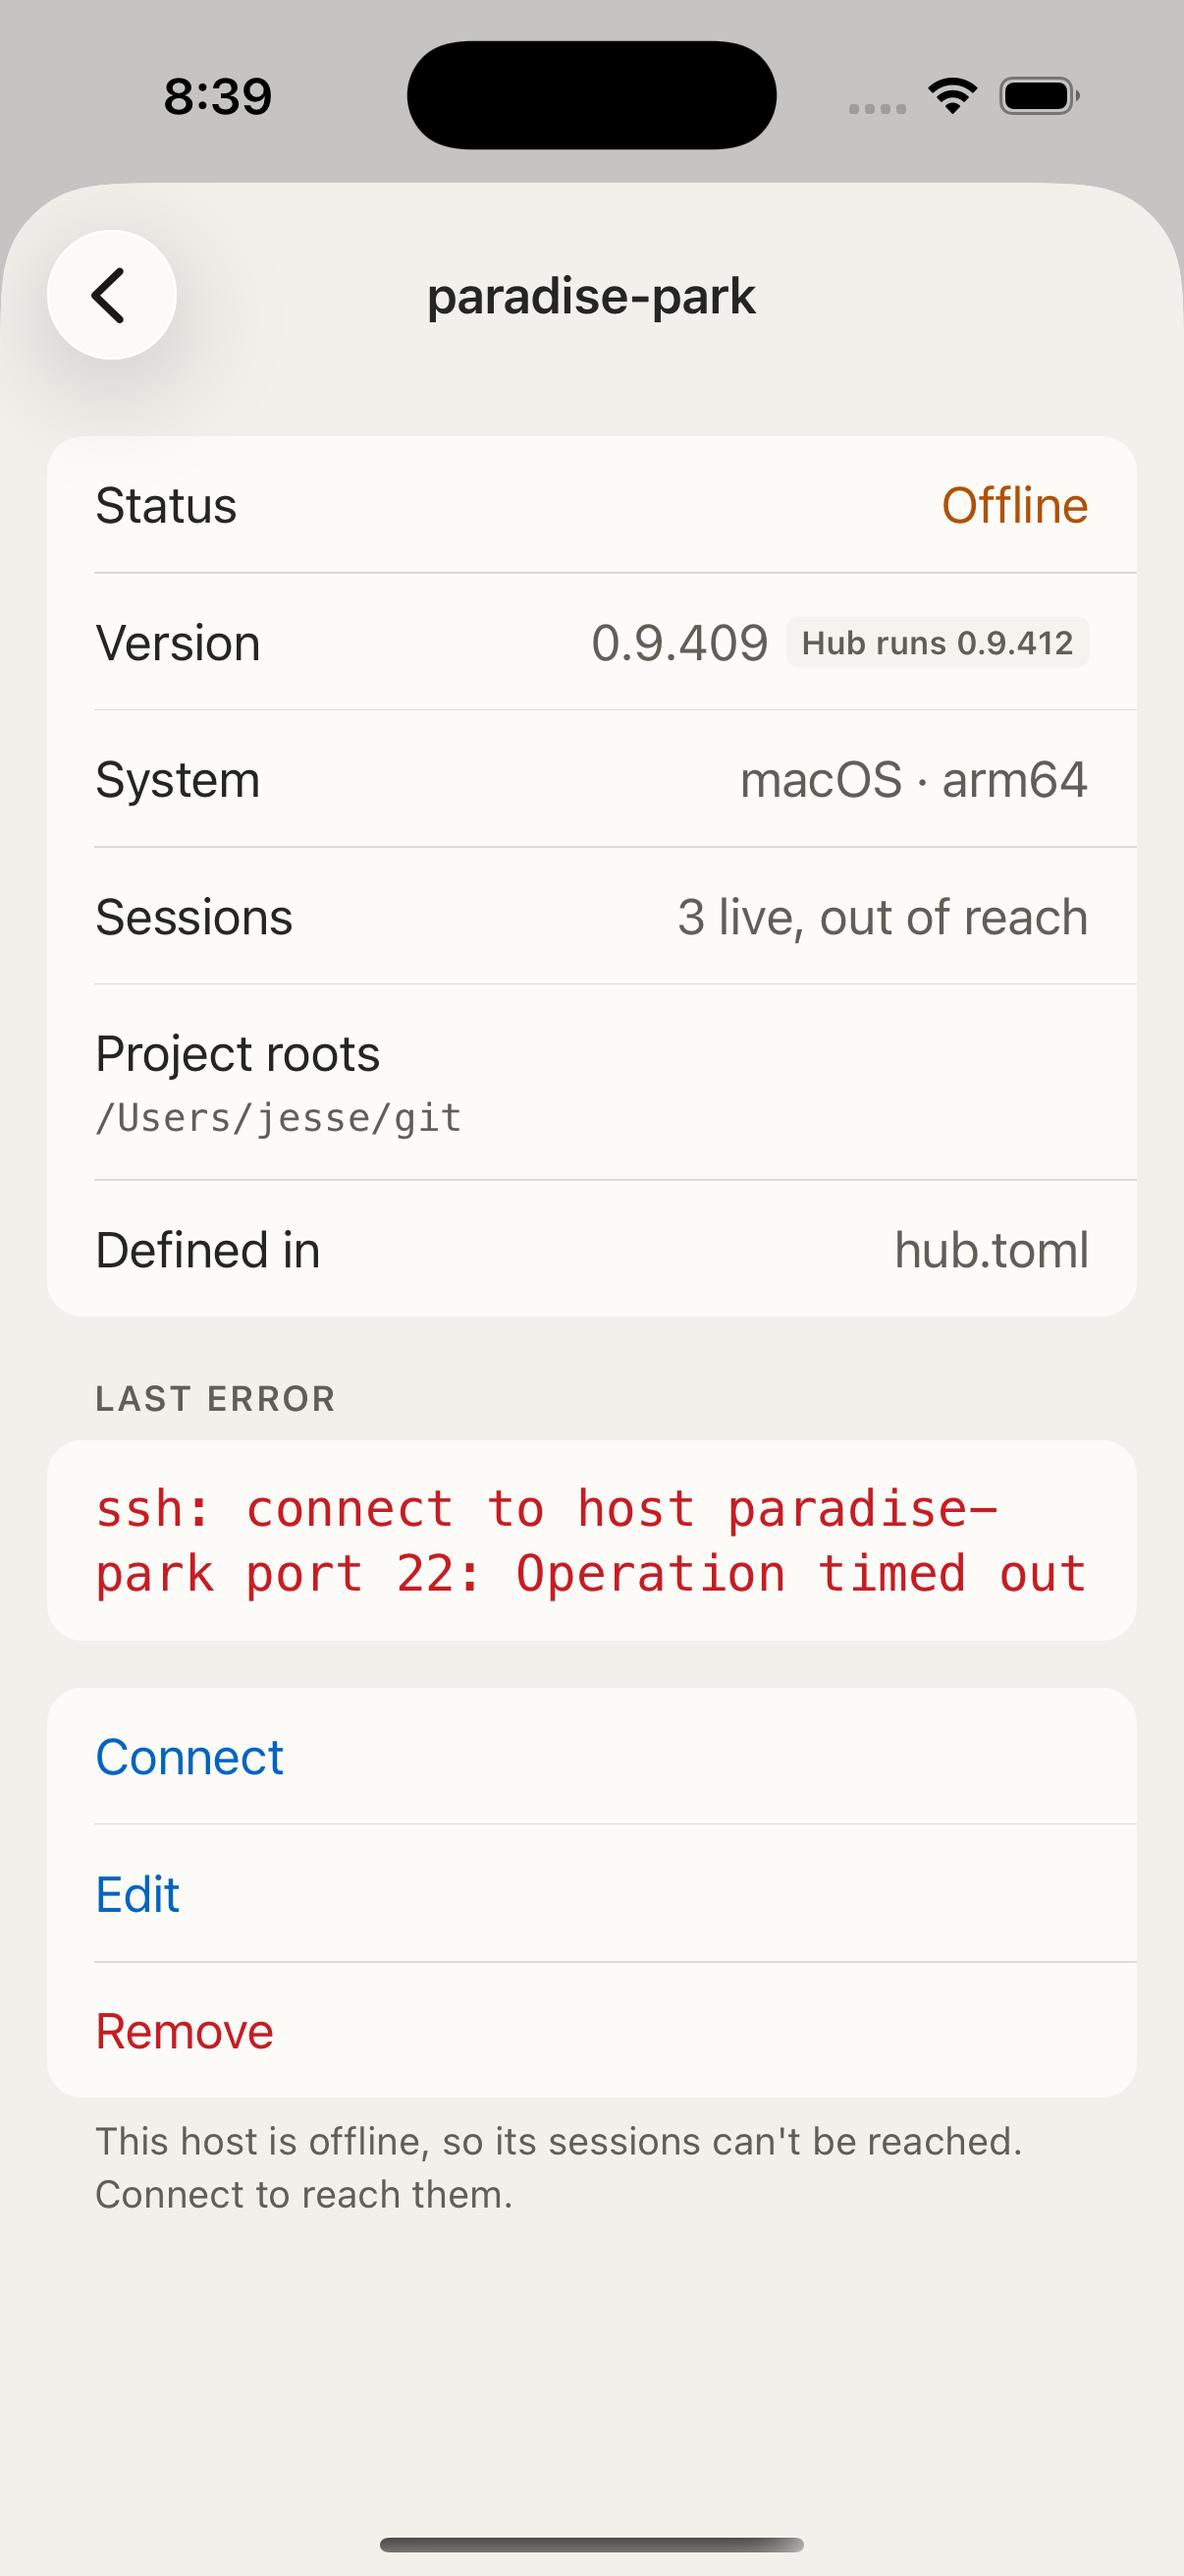
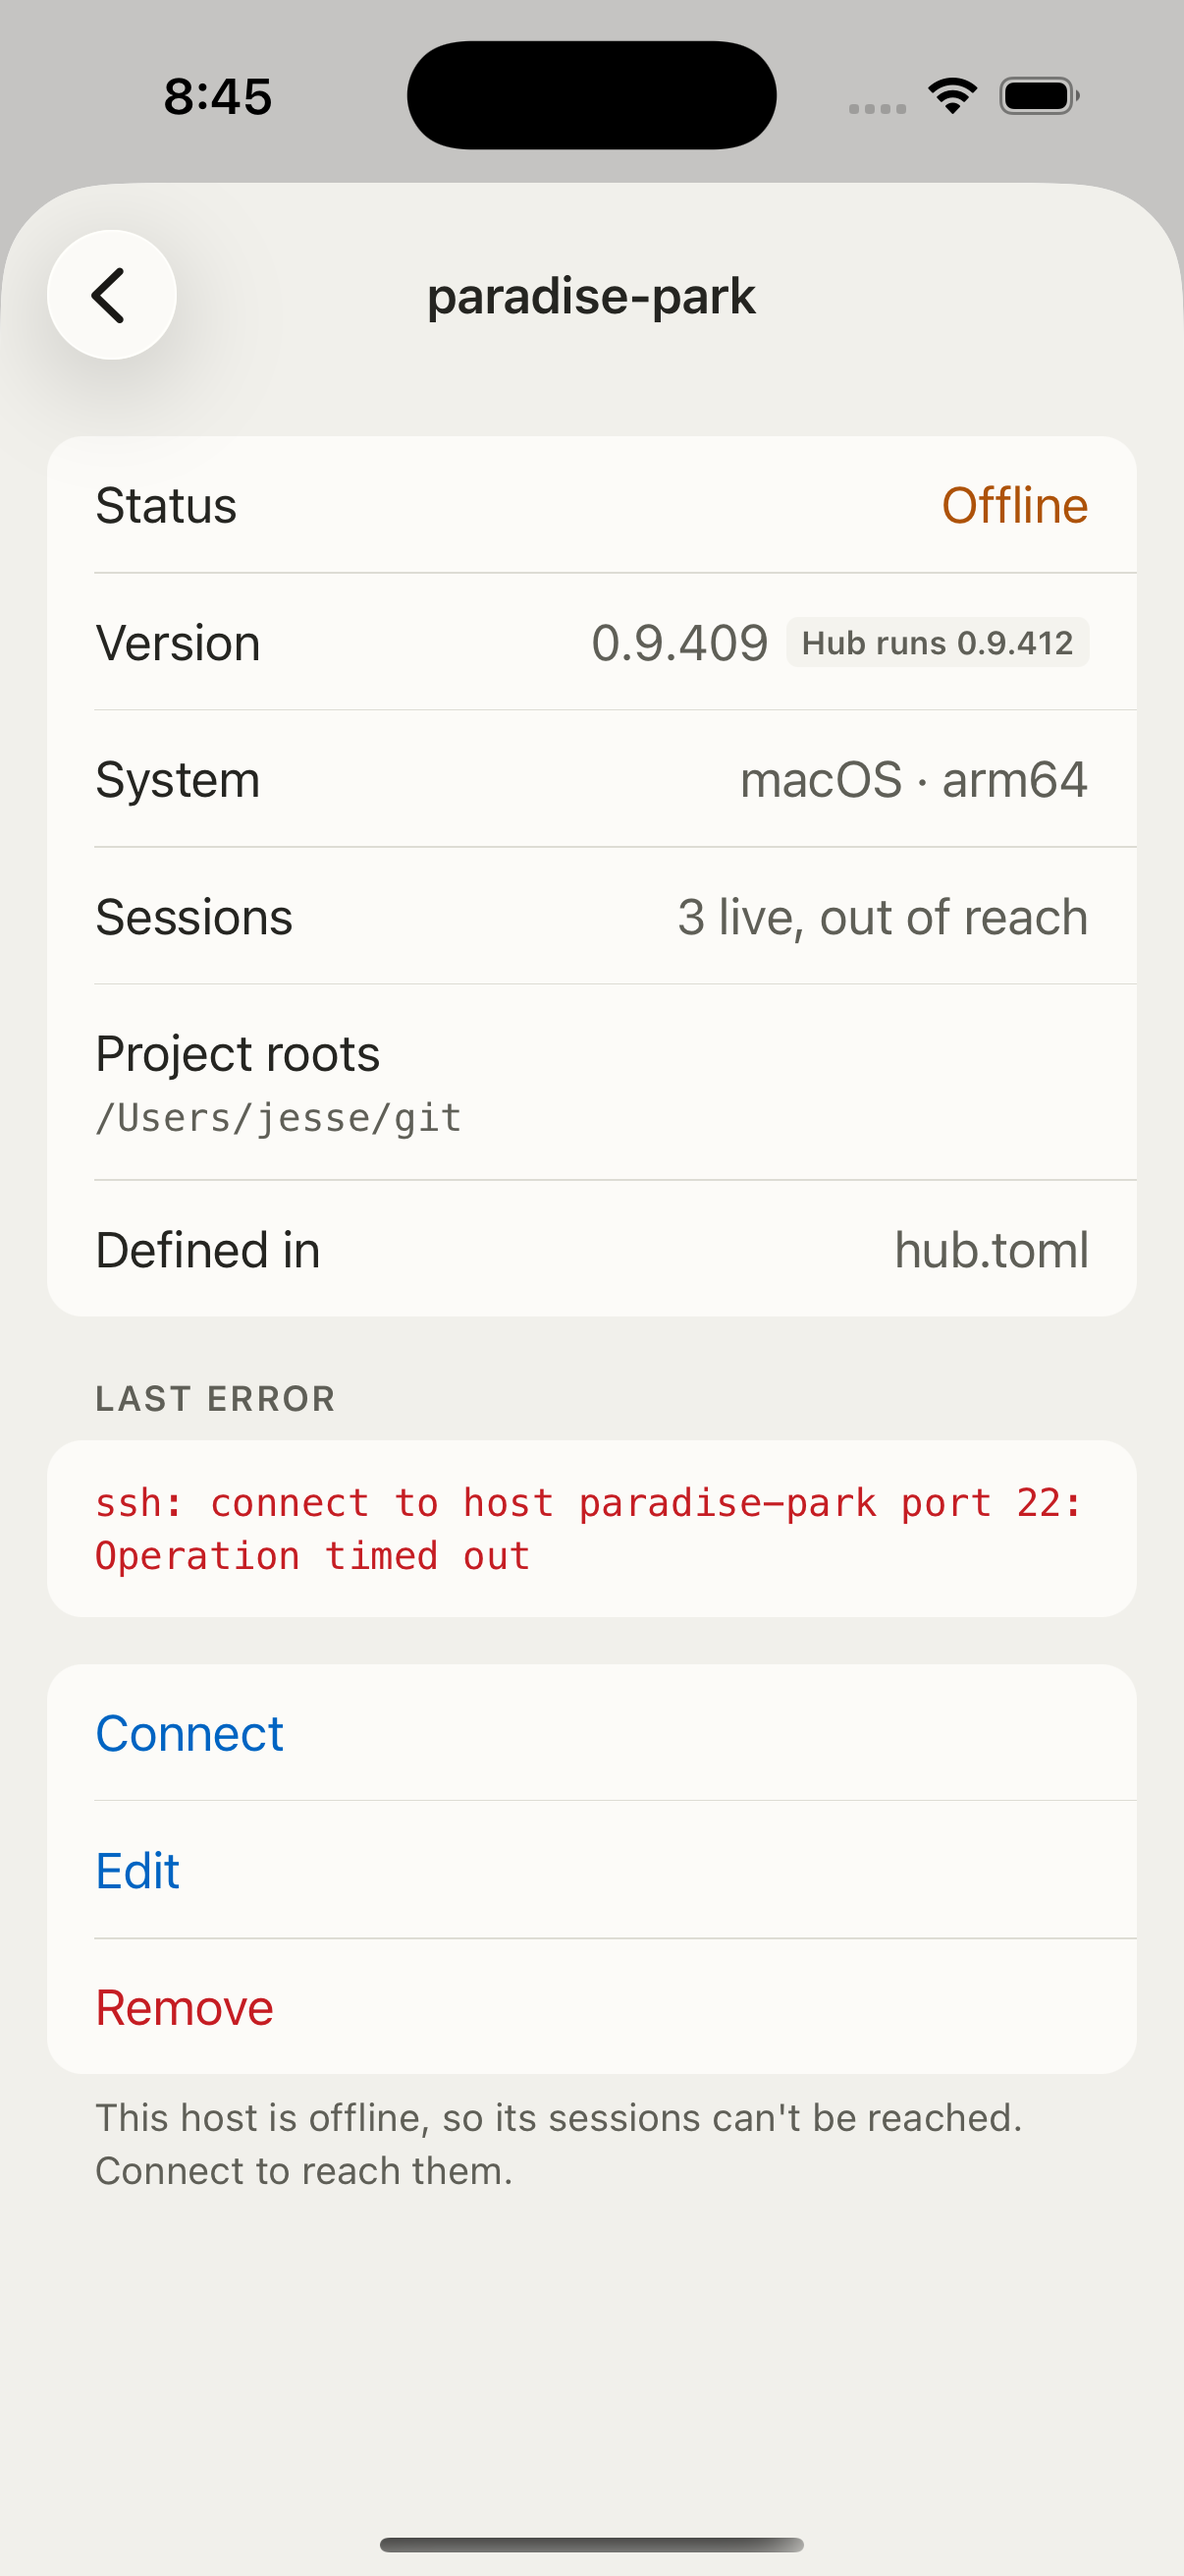
fix(native): footnote-sized last error, and the Hubs state as the row's value (6a rulings)
- A host's last error is a footnote-sized Menlo block inside its group, the
  prototype's 13px, rather than a 17pt row label.
- The selected hub's state is the row's value, in the UI font; the address
  stays in the sub, in Menlo.

Claude-Session: https://claude.ai/code/session_01HtmFCkdWNWarafbQX9SYvA

diff --git a/mobile-native/src/hub/HostDetailPage.tsx b/mobile-native/src/hub/HostDetailPage.tsx
@@ -7,14 +7,16 @@
 import { friendlyErrorMessage } from "@evener/appwire-client";
 import type { NativeStackScreenProps } from "@react-navigation/native-stack";
 import { useState } from "react";
-import { Alert } from "react-native";
+import { Alert, Text } from "react-native";
 import { whenReady } from "../connectionDisplay";
+import { fonts, scaledType, space, uiType } from "../design/tokens";
 import { destructiveButton } from "../haptics";
 import { hostStatus, systemLabel, VERSION_DRIFT_FOOTER, versionDriftTag } from "../hosts/hostStatus";
 import { liveSessionsText } from "../hosts/liveCounts";
 import { Group, GroupedPage, GroupFooter, Row, RowValue } from "../sheet/Grouped";
 import { SheetStatus } from "../sheet/SheetStatus";
 import { HostsNotListed } from "../hosts/HostsNotListed";
+import { allowFontScaling, useColors, useTextScale } from "../ui";
 import { type HubRoutes, useHubSheet } from "./hubSheetContext";
 import { useHostsOnScreen, useLeavesWithHost } from "./useHostsOnScreen";
 
@@ -23,6 +25,8 @@ export function HostDetailPage({ navigation, route }: NativeStackScreenProps<Hub
 	const { hubId, hubName, ready, canUseConnection, hosts } = useHubSheet();
 	const [removing, setRemoving] = useState(false);
 	const [removeError, setRemoveError] = useState<string | null>(null);
+	const { palette } = useColors();
+	const scale = useTextScale();
 	const { state, loadError, liveCount, hubVersion } = useHostsOnScreen();
 	const row = state?.rows?.find((candidate) => candidate.name === name);
 	useLeavesWithHost(state ? !!row : null, navigation.goBack);
@@ -78,8 +82,21 @@ export function HostDetailPage({ navigation, route }: NativeStackScreenProps<Hub
 				<Row label="Defined in" value={row.origin === "sidecar" ? "the app or web" : "hub.toml"} />
 			</Group>
 			{!row.attached && row.lastAttachError ? (
+				// Raw text the hub reported, at the prototype's footnote size
+				// (hub.js:67): too long for a 17pt row label.
 				<Group label="Last error">
-					<Row label={row.lastAttachError} machineLabel tone="danger" />
+					<Text
+						allowFontScaling={allowFontScaling}
+						style={{
+							color: palette.dangerInk,
+							...scaledType(uiType.footnote, scale),
+							fontFamily: fonts.mono,
+							paddingHorizontal: space.rowInset,
+							paddingVertical: space.rowPadding,
+						}}
+					>
+						{row.lastAttachError}
+					</Text>
 				</Group>
 			) : null}
 			<Group>

diff --git a/mobile-native/src/hub/HubsPage.test.tsx b/mobile-native/src/hub/HubsPage.test.tsx
@@ -86,7 +86,7 @@ it("lists every saved hub with its address, and checks the selected one", () => 
 
 it("shows each hub's address in Menlo", () => {
 	const { tree } = mount();
-	for (const line of ["https://magic-kingdom:9180 · Connected", "http://100.113.28.18:9180"]) {
+	for (const line of ["https://magic-kingdom:9180", "http://100.113.28.18:9180"]) {
 		const address = tree.root.find((node) => String(node.type) === "Text" && node.props.children === line);
 		expect(JSON.stringify(address.props.style)).toContain("Menlo");
 	}
@@ -143,14 +143,16 @@ it("says where the pairing code lives, and never asks to reconnect", () => {
 	expect(text).not.toMatch(/\bReconnect\b/);
 });
 
-function subOf(tree: ReactTestRenderer, name: string): string | undefined {
-	return tree.root.findAll((node) => node.type === Row && node.props.label === name)[0]?.props.sub;
+function rowOf(tree: ReactTestRenderer, name: string) {
+	return tree.root.findAll((node) => node.type === Row && node.props.label === name)[0]?.props;
 }
 
-it("says the selected hub is connected beside its address, and gives the others their address alone", () => {
+it("says the selected hub is connected, in the UI font beside its address, and says nothing of the others", () => {
 	const { tree } = mount();
-	expect(subOf(tree, "magic-kingdom")).toBe("https://magic-kingdom:9180 · Connected");
-	expect(subOf(tree, "paradise-park")).toBe("http://100.113.28.18:9180");
+	expect(rowOf(tree, "magic-kingdom")).toMatchObject({ sub: "https://magic-kingdom:9180", value: "Connected" });
+	expect(rowOf(tree, "paradise-park")).toMatchObject({ sub: "http://100.113.28.18:9180", value: undefined });
+	const word = tree.root.find((node) => String(node.type) === "Text" && node.props.children === "Connected");
+	expect(JSON.stringify(word.props.style)).not.toContain("Menlo");
 });
 
 it("says the selected hub's connection state in the words the Hub's header uses", () => {
@@ -161,7 +163,7 @@ it("says the selected hub's connection state in the words the Hub's header uses"
 		connection.downSince = now - 5_000;
 		connection.lastLiveAt = now;
 		const { tree } = mount();
-		expect(subOf(tree, "magic-kingdom")).toBe("https://magic-kingdom:9180 · Reconnecting…");
+		expect(rowOf(tree, "magic-kingdom")?.value).toBe("Reconnecting…");
 		act(() => tree.unmount());
 	} finally {
 		vi.useRealTimers();

diff --git a/mobile-native/src/hub/HostDetailPage.test.tsx b/mobile-native/src/hub/HostDetailPage.test.tsx
@@ -2,7 +2,7 @@ import { createHubUpdateController, type HostRow, WireError } from "@evener/appw
 import type { NativeStackScreenProps } from "@react-navigation/native-stack";
 import { act } from "react-test-renderer";
 import { expect, it, vi } from "vitest";
-import { fonts, palettes } from "../design/tokens";
+import { fonts, palettes, uiType } from "../design/tokens";
 import { HostsController } from "../hosts/hostsController";
 import { hostRow, liveSession, type ScriptedFleet, scriptedFleet } from "../hosts/hostsTestUtils";
 import { VERSION_DRIFT_FOOTER } from "../hosts/hostStatus";
@@ -118,7 +118,7 @@ it("puts an offline host's state in the attention ink, its last error in Menlo, 
 	page.dispose();
 });
 
-it("keeps the last error inside its own group, in Menlo and the danger ink (prototype hub.js:67)", async () => {
+it("keeps the last error inside its own group, in footnote Menlo and the danger ink (hub.js:67)", async () => {
 	const page = await mount(
 		scriptedFleet([hostRow("attic", { attached: false, origin: "sidecar", lastAttachError: "ssh: connect refused" })]),
 		"attic",
@@ -131,6 +131,8 @@ it("keeps the last error inside its own group, in Menlo and the danger ink (prot
 	const style = Object.assign({}, ...[error?.props.style].flat());
 	expect(style.fontFamily).toBe(fonts.mono);
 	expect(style.color).toBe(palettes.light.dangerInk);
+	// Footnote-sized, as the prototype's 13px, not a 17pt row label.
+	expect(style.fontSize).toBe(uiType.footnote.fontSize);
 	page.dispose();
 });
 

diff --git a/mobile-native/src/hub/HubsPage.tsx b/mobile-native/src/hub/HubsPage.tsx
@@ -22,9 +22,6 @@ export function HubsPage({ navigation }: NativeStackScreenProps<HubRoutes, "Hubs
 			<Group label="Hubs">
 				{profiles.map((profile) => {
 					const selected = profile.id === activeProfile?.id;
-					// Only the selected hub has a connection to describe; the others are
-					// simply not in use (prototype hub.js:202).
-					const sub = selected ? `${profile.origin} · ${hubConnectionWord(ready, connectionLine)}` : profile.origin;
 					return (
 						// The details button sits beside the row rather than inside it,
 						// so VoiceOver reaches it as its own element.
@@ -32,7 +29,10 @@ export function HubsPage({ navigation }: NativeStackScreenProps<HubRoutes, "Hubs
 							<View style={{ flex: 1 }}>
 								<Row
 									label={profile.name}
-									sub={sub}
+									sub={profile.origin}
+									// Only the selected hub has a connection to describe; the
+									// others are simply not in use (prototype hub.js:202).
+									value={selected ? hubConnectionWord(ready, connectionLine) : undefined}
 									machineSub
 									checked={selected}
 									onPress={selected ? undefined : () => selectHub(profile.id)}
